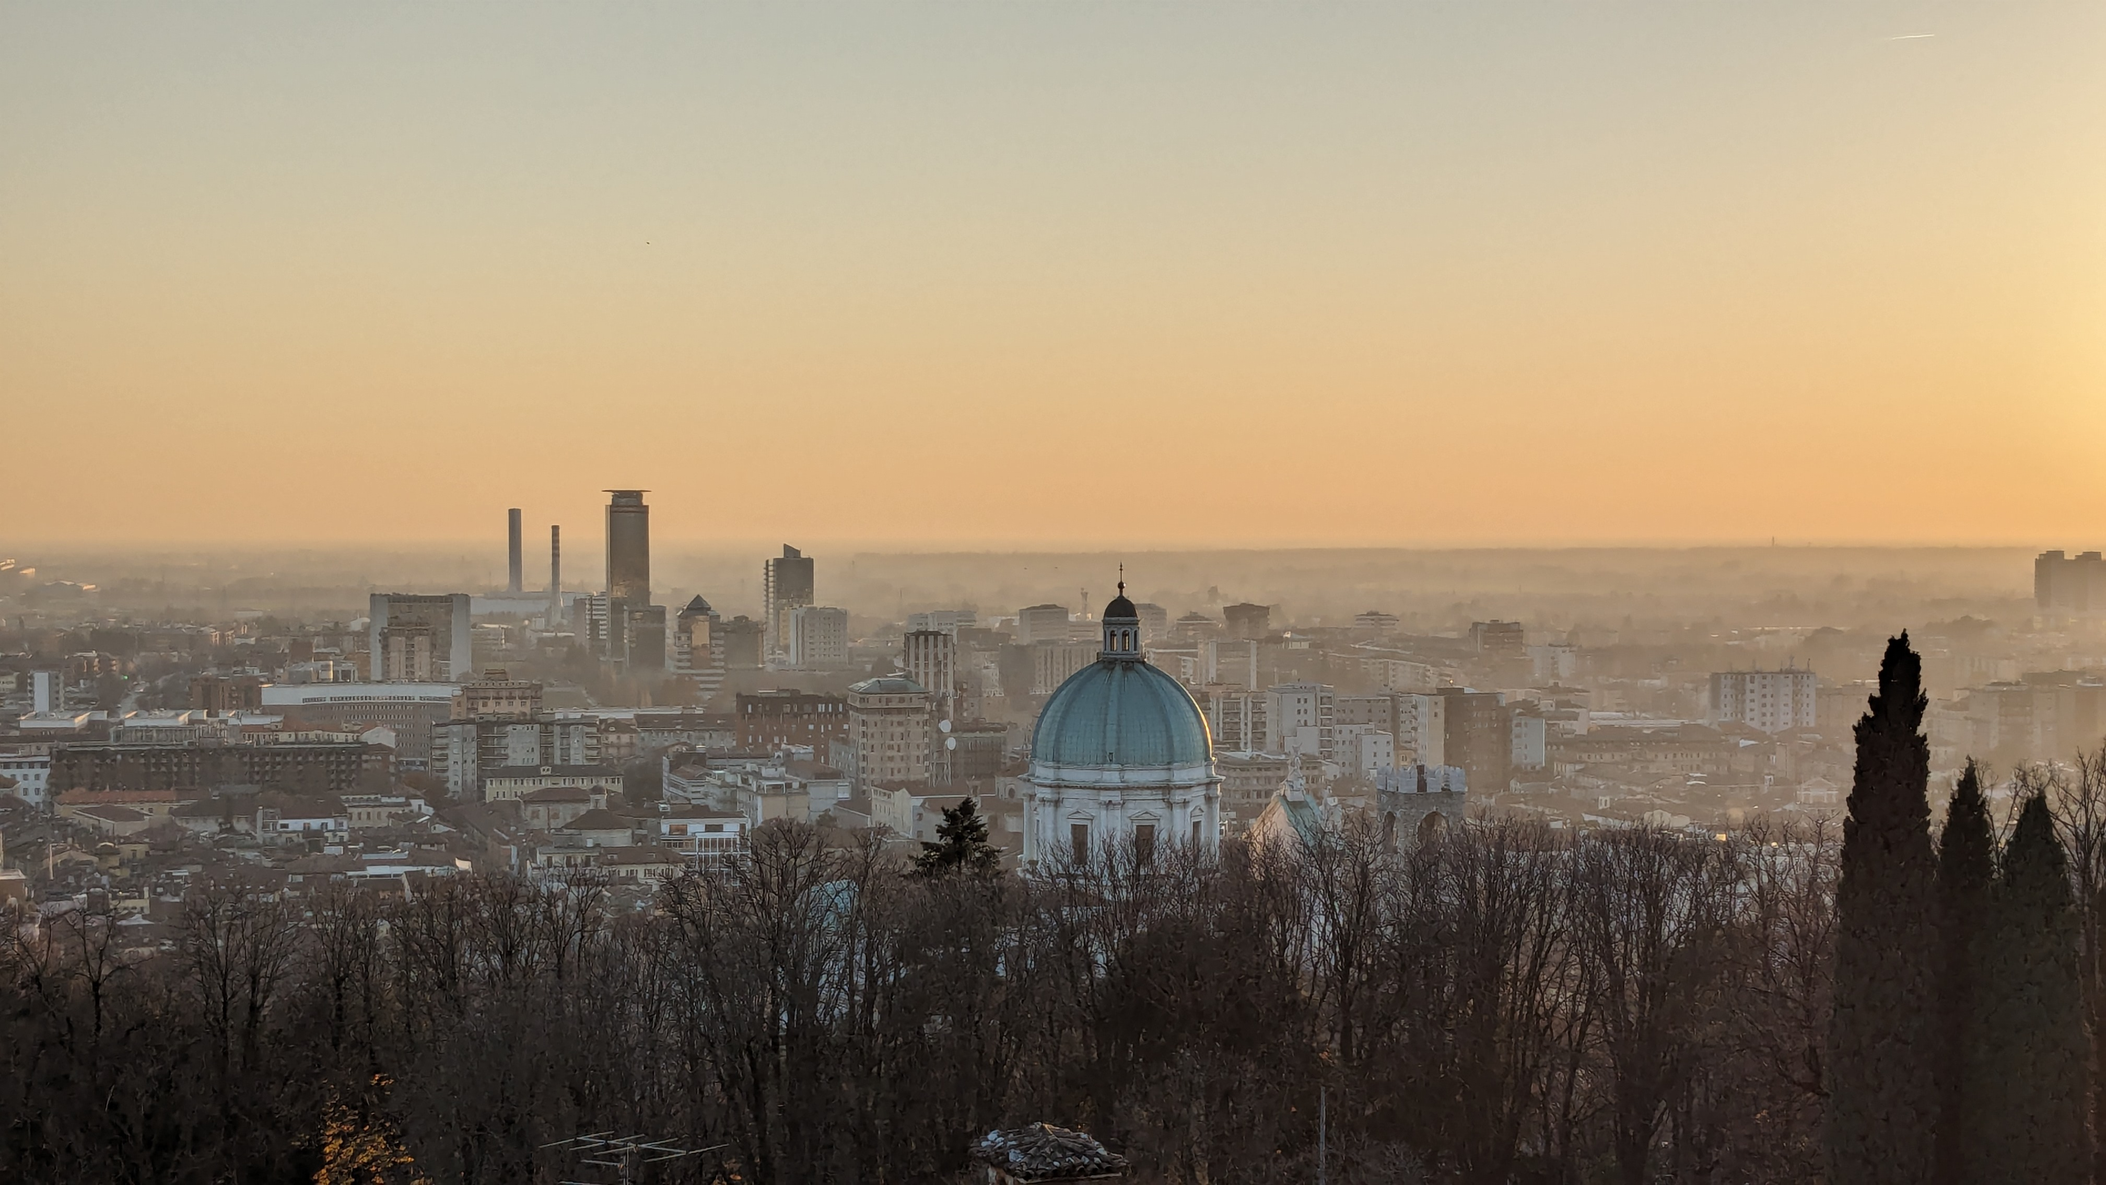
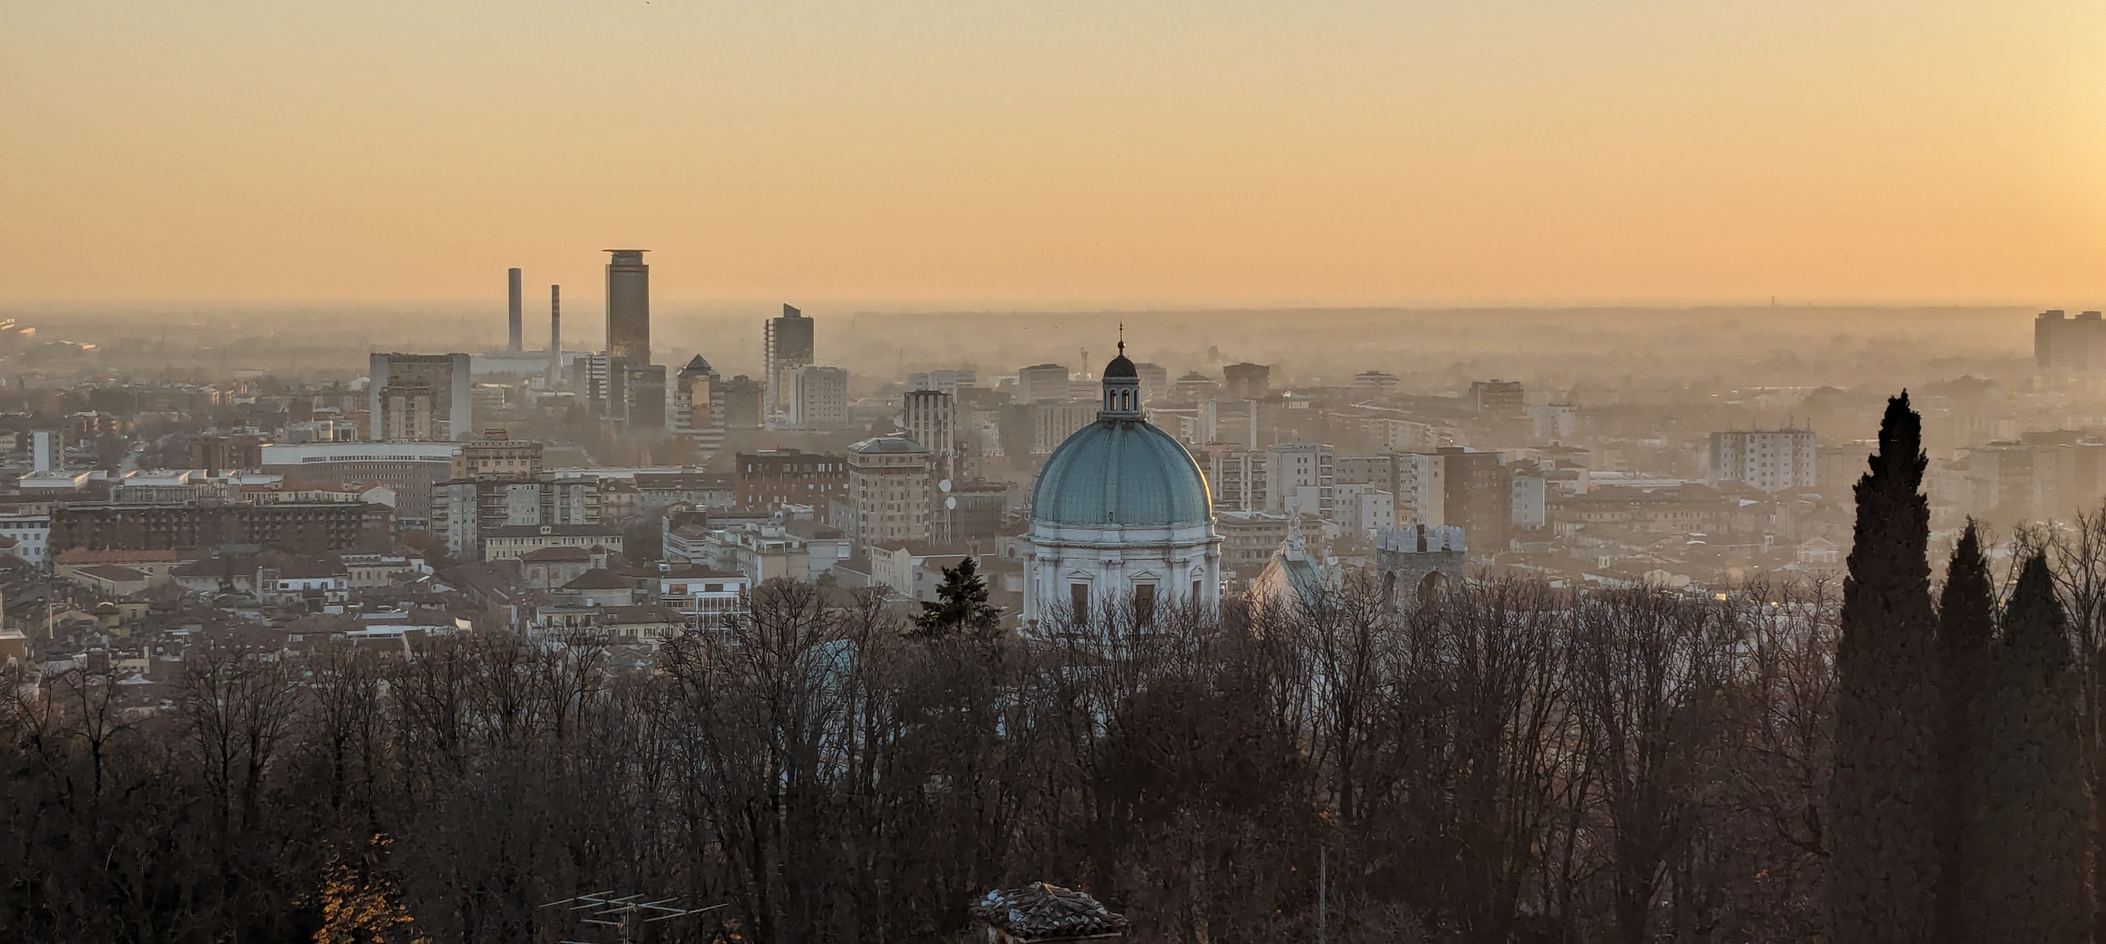
feat: Add detailed arrival instructions, update page titles, and replace the feature image.

diff --git a/content/info/arrival/index.de.md b/content/info/arrival/index.de.md
@@ -1,17 +1,41 @@
 ---
-title: "Iseosee"
-featureimage: "img/iseo/cypress.jpg"
-summary: "Der Iseosee ist ein alpiner See in der Lombardei, dessen Geologie durch die letzte Eiszeit geprägt wurde und dessen Geschichte von prähistorischen Siedlungen bis zur heutigen touristischen Bedeutung reicht."
+title: "Anreise"
+featureimage: "img/brescia/panorama.jpg"
 ---
 
-### Geologie des Iseosees
+Wir sind uns bewusst, dass die Feier in Italien CO₂-Emissionen verursacht. Um unseren Fußabdruck zu reduzieren, möchten wir euch helfen, die effizientesten Reisemöglichkeiten zu finden und euch mit anderen Gästen zu verbinden, um gemeinsam zu reisen.
 
-Der Iseosee, auch bekannt als Lago d'Iseo oder Sebino, ist ein alpiner See in der Lombardei, Italien. Seine Entstehung ist eng mit der letzten Eiszeit verbunden. Vor etwa 10.000 Jahren formten massive Gletscher, die aus den Alpen herabflossen, das tiefe Becken, in dem sich der See heute befindet. Diese Gletscher hinterließen charakteristische Moränenhügel, die heute die Uferlandschaft prägen und dem See seine unverwechselbare Form geben. Die steilen Felswände, die an vielen Stellen direkt in den See abfallen, zeugen von der gewaltigen Erosionskraft des Eises.
+## Mit dem Zug
 
-Die geologische Beschaffenheit der Region ist vielfältig, mit einer Mischung aus Kalkstein und Dolomitgestein, das die umliegenden Berge bildet. Diese Gesteinsarten tragen zur einzigartigen Wasserqualität des Sees bei und beeinflussen die lokale Flora und Fauna. Die tiefen Gewässer des Iseosees, die an einigen Stellen über 250 Meter erreichen, sind ein Relikt dieser glazialen Vergangenheit und bieten Lebensraum für eine reiche aquatische Artenvielfalt.
+Für unsere Gäste, die aus oder durch Deutschland anreisen, gibt es drei bequeme Möglichkeiten, Brescia und den Iseosee mit dem Zug zu erreichen.
 
-### Geschichte des Iseosees
+*   **München nach Verona:** Ein direkter [Railjet RJ8X/EC8X](https://www.oebb.at/de/reiseplanung-services/im-zug/unsere-zuege/railjet), der alle zwei Stunden von München abfährt und in Verona Porta Nuova ankommt, betrieben von der ÖBB. Von Verona aus könnt ihr einen Trenitalia-Hochgeschwindigkeitszug oder einen Regionalzug nach Brescia nehmen.
+*   **Frankfurt nach Mailand:** Ein direkter [Eurocity Express ECE151](https://www.zugreiseblog.de/zug-frankfurt-mailand/), der täglich um 08:02 Uhr vom Frankfurter Hauptbahnhof abfährt und um 15:35 Uhr in Milano Centrale ankommt, betrieben von der SBB. Von Mailand aus könnt ihr einen Trenitalia-Hochgeschwindigkeitszug oder einen Regionalzug nach Brescia nehmen.
+*   **München nach Brescia:** Eine direkte [Nightjet](https://www.nightjet.com/de/#/home)-Verbindung, betrieben von der ÖBB.
 
-Die Geschichte der menschlichen Besiedlung rund um den Iseosee reicht weit zurück. Archäologische Funde belegen prähistorische Siedlungen, die die strategische Lage und die natürlichen Ressourcen des Sees nutzten. Während der Römerzeit war die Region ein wichtiger Knotenpunkt für Handel und Verkehr, und es entstanden erste feste Siedlungen und Infrastrukturen. Der See diente als Transportweg für Güter und Personen, und die fruchtbaren Ufer boten ideale Bedingungen für Landwirtschaft und Fischerei.
+Um die günstigsten Tickets zu erhalten, empfehlen wir, [DB](https://www.bahn.de/?lang=de), [ÖBB](https://www.oebb.at/) und [Trenitalia](https://www.trenitalia.com/de.html) für alle Verbindungen sowie [SBB](https://www.sbb.ch/) für die Frankfurt-Verbindung zu prüfen. Möglicherweise müsst ihr zwei separate Tickets buchen (z. B. Erlangen nach Verona mit der DB und Verona nach Brescia mit Trenitalia oder Erlangen nach München mit der DB und München nach Brescia mit der ÖBB). Regionalzüge in Italien können über Trenitalia oder direkt am Bahnhof gekauft werden. Sie sind nicht teuer und der Preis ändert sich nicht, wenn sie am Reisetag gekauft werden.
 
-Im Mittelalter und in der Neuzeit spielte der Iseosee eine Rolle in den Machtkämpfen zwischen verschiedenen lokalen Herrschaften und größeren Mächten wie Venedig und Mailand. Zahlreiche Burgen und Befestigungsanlagen entlang der Ufer zeugen von dieser turbulenten Vergangenheit. Mit der Zeit entwickelte sich die Region zu einem Zentrum für Seidenproduktion und später für die Eisenindustrie, was die wirtschaftliche Entwicklung und das Wachstum der Städte am Seeufer maßgeblich prägte. Heute ist der Iseosee ein beliebtes Touristenziel, das seine reiche Geschichte und atemberaubende Natur harmonisch miteinander verbindet.
+## Mit dem Flugzeug
+
+Wenn ihr euch für eine Flugreise entscheidet, schlagen wir einen der folgenden Flughäfen vor.
+
+*   **Flughafen Bergamo (BGY):** Auch irreführend "Mailand Bergamo" genannt. Es ist der nächstgelegene Flughafen, etwa **40 Minuten** von Iseo oder Brescia entfernt. Er wird hauptsächlich von Billigfluggesellschaften wie Ryanair angeflogen. Es gibt einen direkten Flughafenbus nach Brescia ([Option 1](https://www.airportbusexpress.it/en-GB/bus-stop-timetable/bresciaautostazione-orioalserio) oder [Option 2](https://autostradale.it/en/i-nostri-servizi/transfer-aeroportuali/brescia-autostazione-bergamo-orio-al-serio/)).
+*   **Mailand Linate (LIN):** Etwa **60 Minuten** von Iseo oder Brescia entfernt. Er wird von Standardfluggesellschaften wie Lufthansa oder Air Dolomiti angeflogen, und ihr könnt den Hauptbahnhof Milano Centrale leicht mit der U-Bahn oder dem Bus erreichen.
+*   **Mailand Malpensa (MXP):** Etwa **90 Minuten** von Iseo oder Brescia entfernt, ebenfalls von Standardfluggesellschaften angeflogen, und ihr könnt Milano Centrale mit dem Zug oder Bus in 60 Minuten erreichen. Dies ist logistisch gesehen die am wenigsten komfortable Flughafenoption.
+
+Der Flughafen Verona (VRN) liegt etwa 50 Minuten von Brescia und 70 Minuten von Iseo entfernt, bietet aber meistens nur regionale Flüge an.
+
+## Gemeinsam reisen
+
+Gemeinsam zu reisen ist nicht nur umweltfreundlicher, sondern macht auch mehr Spaß! Wenn ihr an Fahrgemeinschaften oder Gruppenreisen interessiert seid, teilt uns dies bitte in eurer Zu- oder Absage mit. Wir werden euch zu einer WhatsApp-Gruppe hinzufügen, in der ihr euch mit anderen Gästen abstimmen könnt.
+
+## Anreise zur Location
+
+Um den Hochzeitsort zu erreichen, empfehlen wir die folgenden Optionen.
+
+*   **Auto:** Ein Auto ist der bequemste Weg, um den Ort zu erreichen. Mietwagen sind an allen Flughäfen und in Brescia verfügbar.
+*   **Fahrgemeinschaften:** Wenn ihr lieber keinen Mietwagen nehmen möchtet, teilt uns dies bitte in eurer Zu- oder Absage mit. Wir können euch mit Gästen in Kontakt bringen, die freie Plätze in ihrem Auto haben. Ebenso, wenn ihr ein Auto habt und eine Mitfahrgelegenheit anbieten könnt, gebt uns bitte Bescheid.
+*   **Zug:** Es ist möglich, den Ort mit dem Zug von Brescia aus zu erreichen, aber bitte beachtet, dass der **letzte Zug zurück um 20:00 Uhr abfährt**, während die Party länger andauern wird.
+*   **Taxi:** Wir empfehlen **nicht**, sich auf Taxis zu verlassen, um zum oder vom Ort zu gelangen, da sie selbst von nahegelegenen Städten wie Pisogne unzuverlässig sein können.
+
+Wenn ihr Fragen habt, zögert nicht, uns zu kontaktieren.

diff --git a/content/info/arrival/index.it.md b/content/info/arrival/index.it.md
@@ -1,17 +1,41 @@
 ---
-title: "Lago d'Iseo"
-featureimage: "img/iseo/cypress.jpg"
-summary: "Il Lago d'Iseo è un lago alpino in Lombardia, la cui geologia è stata plasmata dall'ultima era glaciale e la cui storia spazia dagli insediamenti preistorici all'attuale attrattiva turistica."
+title: "Arrivo"
+featureimage: "img/brescia/panorama.jpg"
 ---
 
-### Geologia del Lago d'Iseo
+Siamo consapevoli che la festa in Italia causa emissioni di CO₂. Per aiutare a ridurre la nostra impronta, vogliamo assistervi nel trovare le opzioni di viaggio più efficienti e mettervi in contatto con altri ospiti per viaggiare insieme.
 
-Il Lago d'Iseo, conosciuto anche come Sebino, è un lago alpino situato in Lombardia, Italia. La sua formazione è strettamente legata all'ultima era glaciale. Circa 10.000 anni fa, imponenti ghiacciai che scendevano dalle Alpi scavarono il profondo bacino in cui si trova oggi il lago. Questi ghiacciai lasciarono dietro di sé le caratteristiche colline moreniche che oggi modellano la costa e conferiscono al lago la sua forma distintiva. Le ripide pareti rocciose che in molti punti si tuffano direttamente nel lago testimoniano l'immensa forza erosiva del ghiaccio.
+## In treno
 
-La composizione geologica della regione è variegata, con un mix di calcare e roccia dolomitica che forma le montagne circostanti. Questi tipi di roccia contribuiscono alla qualità unica dell'acqua del lago e influenzano la flora e la fauna locali. Le acque profonde del Lago d'Iseo, che in alcuni punti raggiungono oltre 250 metri, sono una reliquia di questo passato glaciale e offrono un habitat per una ricca biodiversità acquatica.
+Per i nostri ospiti che viaggiano da o attraverso la Germania, ci sono tre comode opzioni per raggiungere Brescia e il Lago d'Iseo in treno.
 
-### Storia del Lago d'Iseo
+*   **Monaco a Verona:** Un [Railjet RJ8X/EC8X](https://www.oebb.at/en/reiseplanung-services/im-zug/unsere-zuege/railjet) diretto che parte da Monaco ogni due ore e arriva a Verona Porta Nuova, operato da ÖBB. Da Verona, potete prendere un treno ad alta velocità o regionale di Trenitalia per Brescia.
+*   **Francoforte a Milano:** Un collegamento diretto [Eurocity Express ECE151](https://www.zugreiseblog.de/zug-frankfurt-mailand/) che parte ogni giorno alle 08:02 da Francoforte Hbf e arriva alle 15:35 a Milano Centrale, operato da SBB. Da Milano, potete prendere un treno ad alta velocità o regionale di Trenitalia per Brescia.
+*   **Monaco a Brescia:** Un collegamento diretto [Nightjet](https://www.nightjet.com/it/#/home) operato da ÖBB.
 
-La storia dell'insediamento umano intorno al Lago d'Iseo risale a tempi antichi. Reperti archeologici confermano insediamenti preistorici che sfruttavano la posizione strategica e le risorse naturali del lago. Durante l'epoca romana, la regione era un importante snodo per il commercio e i trasporti, e sorsero i primi insediamenti permanenti e infrastrutture. Il lago serviva come via di trasporto per merci e persone, e le sue rive fertili offrivano condizioni ideali per l'agricoltura e la pesca.
+Per ottenere i biglietti più economici, consigliamo di controllare [DB](https://int.bahn.de/it), [ÖBB](https://www.oebb.at/en) e [Trenitalia](https://www.trenitalia.com/) per tutte le connessioni, così come [SBB](https://www.sbb.ch/it) per il collegamento da Francoforte. Potrebbe essere necessario prenotare due biglietti separati (ad es. da Erlangen a Verona con DB e da Verona a Brescia con Trenitalia, o da Erlangen a Monaco con DB e da Monaco a Brescia con ÖBB). I treni regionali in Italia possono essere acquistati tramite Trenitalia o direttamente in stazione. Non sono costosi e il prezzo non cambia se acquistati il giorno del viaggio.
 
-Nel Medioevo e nell'età moderna, il Lago d'Iseo ha avuto un ruolo nelle lotte di potere tra varie signorie locali e potenze maggiori come Venezia e Milano. Numerosi castelli e fortificazioni lungo le rive testimoniano questo turbolento passato. Con il tempo, la regione si sviluppò in un centro per la produzione della seta e successivamente per l'industria del ferro, che influenzò in modo significativo lo sviluppo economico e la crescita delle città lungo il lago. Oggi, il Lago d'Iseo è una popolare destinazione turistica che combina armoniosamente la sua ricca storia con una natura mozzafiato.
+## In aereo
+
+Se scegliete di viaggiare in aereo, suggeriamo uno dei seguenti aeroporti.
+
+*   **Aeroporto di Bergamo (BGY):** Chiamato anche in modo fuorviante "Milano Bergamo". È l'aeroporto più vicino, situato a circa **40 minuti** da Iseo o Brescia. È servito principalmente da compagnie aeree low-cost come Ryanair. C'è un autobus diretto dall'aeroporto a Brescia ([opzione 1](https://www.airportbusexpress.it/it-IT/orari-aeroportuali/bresciaautostazione-orioalserio) o [opzione 2](https://autostradale.it/i-nostri-servizi/transfer-aeroportuali/brescia-autostazione-bergamo-orio-al-serio/)).
+*   **Milano Linate (LIN):** A circa **60 minuti** da Iseo o Brescia. È servito da compagnie aeree standard come Lufthansa o Air Dolomiti, e potete raggiungere facilmente la stazione centrale di Milano Centrale in metropolitana o autobus.
+*   **Milano Malpensa (MXP):** A circa **90 minuti** da Iseo o Brescia, servito anch'esso da compagnie aeree standard, e potete raggiungere Milano Centrale in treno o autobus in 60 minuti. Questa è l'opzione aeroportuale meno comoda dal punto di vista logistico.
+
+L'Aeroporto di Verona (VRN) si trova a circa 50 minuti da Brescia e 70 minuti da Iseo, ma offre principalmente solo voli regionali.
+
+## Viaggiare insieme
+
+Viaggiare insieme non è solo più ecologico ma anche più divertente! Se siete interessati al carpooling o a viaggiare in gruppo, fatecelo sapere nella vostra conferma (RSVP). Vi aggiungeremo a un gruppo WhatsApp dove potrete coordinarvi con gli altri ospiti.
+
+## Arrivare alla location
+
+Per raggiungere il luogo del matrimonio, consigliamo le seguenti opzioni.
+
+*   **Auto:** L'auto è il modo più comodo per raggiungere la location. Le auto a noleggio sono disponibili in tutti gli aeroporti e a Brescia.
+*   **Carpooling:** Se non volete noleggiare un'auto, fatecelo sapere nella conferma (RSVP). Possiamo mettervi in contatto con ospiti che hanno posti liberi nella loro auto. Allo stesso modo, se avete un'auto e potete offrire un passaggio, fatecelo sapere.
+*   **Treno:** È possibile raggiungere la location in treno da Brescia, ma tenete presente che l'**ultimo treno per il ritorno parte alle 20:00**, mentre la festa continuerà più a lungo.
+*   **Taxi:** **Sconsigliamo** di affidarsi ai taxi per raggiungere o lasciare la location, poiché possono essere inaffidabili anche da paesi vicini come Pisogne.
+
+Se avete domande, non esitate a contattarci.

diff --git a/content/info/arrival/index.en.md b/content/info/arrival/index.en.md
@@ -1,17 +1,41 @@
 ---
-title: "Iseo lake"
-featureimage: "img/iseo/cypress.jpg"
-summary: "Lake Iseo is an alpine lake in Lombardy, Italy, whose geology was shaped by the last Ice Age and whose history ranges from prehistoric settlements to its current tourist appeal."
+title: "Arrival"
+featureimage: "img/brescia/panorama.jpg"
 ---
 
-### Geology of Lake Iseo
+We are aware that the celebration in Italy causes CO₂ emissions. To help reduce our footprint, we want to assist you in finding the most efficient travel options and connecting you with other guests to travel together.
 
-Lake Iseo, also known as Lago d'Iseo or Sebino, is an alpine lake located in Lombardy, Italy. Its formation is closely linked to the last Ice Age. Approximately 10,000 years ago, massive glaciers flowing down from the Alps carved out the deep basin where the lake now lies. These glaciers left behind characteristic morainic hills that shape the current shoreline and give the lake its distinctive form. The steep rock faces that plunge directly into the lake in many places bear witness to the immense erosive power of the ice.
+## By train
 
-The geological composition of the region is diverse, featuring a mix of limestone and dolomite rock that forms the surrounding mountains. These rock types contribute to the unique water quality of the lake and influence the local flora and fauna. The deep waters of Lake Iseo, reaching over 250 meters in some areas, are a relic of this glacial past and provide a habitat for a rich aquatic biodiversity.
+For our guests traveling from or through Germany, there are three convenient options to reach Brescia and Lake Iseo by train.
 
-### History of Lake Iseo
+*   **Munich to Verona:** A direct [Railjet RJ8X/EC8X](https://www.oebb.at/en/reiseplanung-services/im-zug/unsere-zuege/railjet) departing from Munich every two hours and arriving in Verona Porta Nuova, operated by ÖBB. From Verona, you can take a Trenitalia high-speed or local train to Brescia.
+*   **Frankfurt to Milan:** A direct [Eurocity Express ECE151](https://www.zugreiseblog.de/zug-frankfurt-mailand/) departing daily at 08:02 from Frankfurt Hbf and arriving at 15:35 in Milano Centrale, operated by SBB. From Milan, you can take a Trenitalia high-speed or local train to Brescia.
+*   **Munich to Brescia:** A direct [Nightjet](https://www.nightjet.com/en/#/home) connection operated by ÖBB.
 
-The history of human settlement around Lake Iseo dates back a long way. Archaeological findings confirm prehistoric settlements that utilized the strategic location and natural resources of the lake. During the Roman era, the region was an important hub for trade and transport, leading to the establishment of the first permanent settlements and infrastructure. The lake served as a transport route for goods and people, and its fertile shores offered ideal conditions for agriculture and fishing.
+To get the cheapest tickets, we recommend checking [DB](https://int.bahn.de/en?dbkanal_007=sprachauswahl-en), [ÖBB](https://www.oebb.at/en), and [Trenitalia](https://www.trenitalia.com/en.html) for all connections as well as [SBB](https://www.sbb.ch/en) for the Frankfurt connection. You may need to book two separate tickets (e.g. Erlangen to Verona with DB and Verona to Brescia with Trenitalia, or Erlangen to Munich with DB and Munich to Brescia with ÖBB). Regional trains in Italy can be purchased through Trenitalia or directly at the station. They are not expensive, and the price does not change if purchased on the day of travel.
 
-In the Middle Ages and early modern period, Lake Iseo played a role in the power struggles between various local lordships and larger powers such as Venice and Milan. Numerous castles and fortifications along the shores bear witness to this turbulent past. Over time, the region developed into a center for silk production and later for the iron industry, which significantly shaped the economic development and growth of the towns along the lake. Today, Lake Iseo is a popular tourist destination that harmoniously combines its rich history with breathtaking natural beauty.
+## By plane
+
+If you choose to travel by plane, we suggest one of the following airports.
+
+*   **Bergamo Airport (BGY):** Also misleadingly called "Milano Bergamo". It is the closest airport, located about **40 minutes** from Iseo or Brescia. It is served mostly by low-cost airlines like Ryanair. There is a direct airport bus to Brescia ([option 1](https://www.airportbusexpress.it/en-GB/bus-stop-timetable/bresciaautostazione-orioalserio) or [option 2](https://autostradale.it/en/i-nostri-servizi/transfer-aeroportuali/brescia-autostazione-bergamo-orio-al-serio/)).
+*   **Milano Linate (LIN):** About **60 minutes** from Iseo or Brescia. It is served by standard airlines like Lufthansa or Air Dolomiti, and you can easily reach the main train station of Milano Centrale by metro or bus.
+*   **Milano Malpensa (MXP):** About **90 minutes** from Iseo or Brescia, also served by standard airlines, and you can reach Milano Centrale by train or bus in 60 minutes. This is the least comfortable airport option for logistics.
+
+Verona Airport (VRN) is located about 50 minutes from Brescia and 70 minutes from Iseo, but mostly offers only regional flights.
+
+## Traveling together
+
+Traveling together is not only more environmentally friendly but also more fun! If you are interested in carpooling or traveling in groups, please let us know in your RSVP. We will add you to a WhatsApp group where you can coordinate with other guests.
+
+## Getting to the venue
+
+To reach the wedding venue, we recommend the following options.
+
+*   **Car:** A car is the most convenient way to reach the venue. Rental cars are available at all airports and in Brescia.
+*   **Carpooling:** If you prefer not to rent a car, please let us know in the RSVP. We can put you in touch with guests who have free seats in their car. Likewise, if you have a car and can offer a ride, please let us know.
+*   **Train:** It is possible to reach the venue by train from Brescia, but please note that the **last train back departs at 8:00 PM**, while the party will continue for longer.
+*   **Taxi:** We **do not recommend** relying on taxis to get to or from the venue, as they can be unreliable even from nearby towns like Pisogne.
+
+If you have any questions, don't hesitate to contact us.
